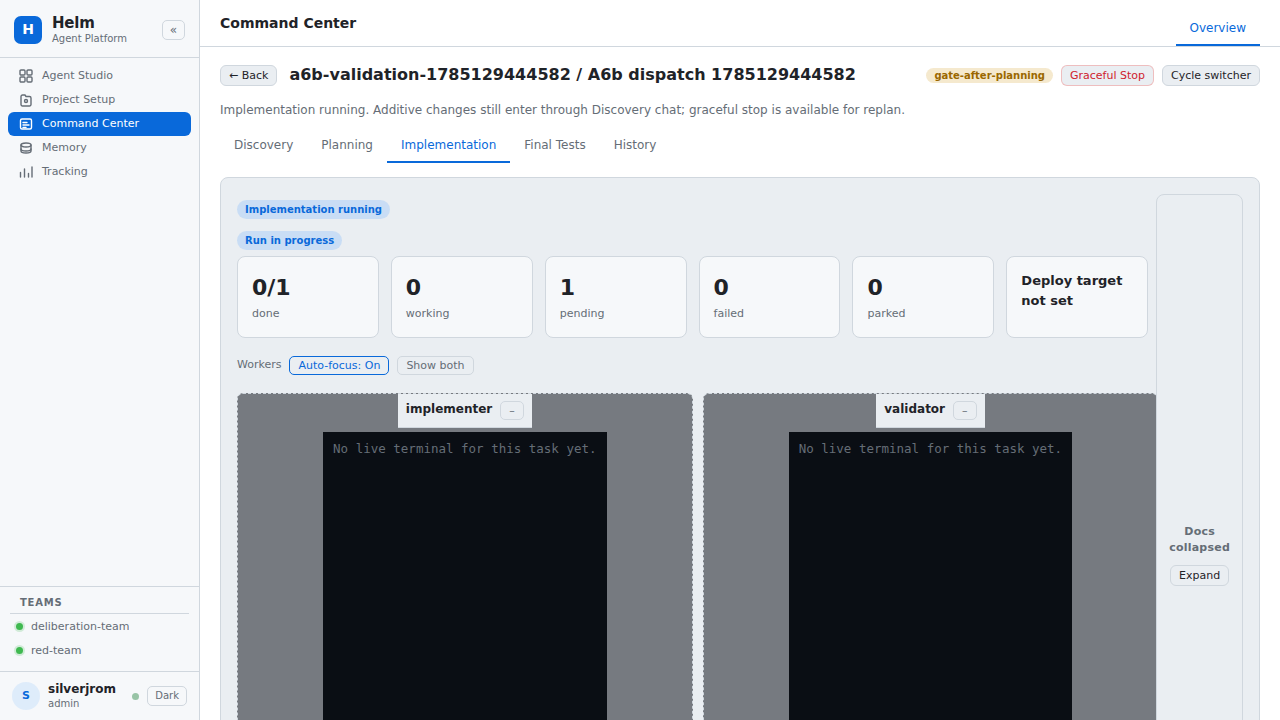
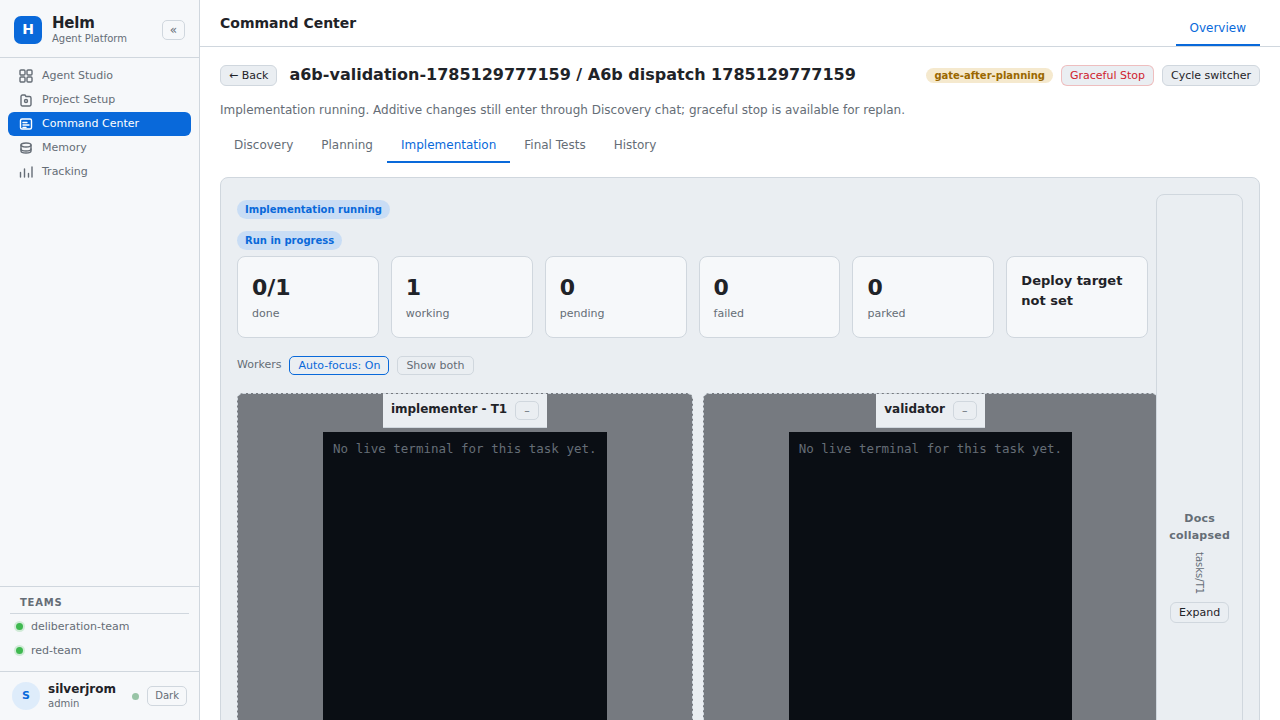
A6b: clear process-local task queue on run start (send-back 3)
Recycled runs.id left TaskQueueService inFlight/allTasks stuck so
getNextReady stayed null after cyclePlan ingest (DB pending, zero
attempts, unknown-pending-stall). clearRun on startRunDetached,
startRunInner, seedFromCyclePlan, and stopRun. Unit poisons inFlight;
live A6b 2× green under 180s.

diff --git a/src/services/run-orchestrator-service.ts b/src/services/run-orchestrator-service.ts
@@ -273,6 +273,11 @@ export class RunOrchestratorService {
     const batchId = input.batchId || `r${Date.now().toString(36)}`;
     const runDir = resolveRunDir(input.projectId, batchId); // #46: single resolver
     const runId = this.deps.artifacts.createRun(input.projectId, batchId, path.join(runDir, CANONICAL_CYCLE_ARTIFACTS.northStar), input.cycleId ?? null);
+    // A6b: process-local TaskQueueService is keyed by runId. SQLite reuses free runs.id after CASCADE
+    // delete; a prior run's stuck inFlight / failedTasks / allTasks then makes getNextReady() return
+    // null forever → DB has pending run_tasks but drainDispatch immediately pending-after-drain stalls
+    // (live A6b: "implementation queue never dispatched after approve"). Wipe queue state for this id.
+    try { this.deps.queue.clearRun(runId); } catch { /* never block start */ }
     try { this.deps.artifacts['db'].raw.prepare("UPDATE runs SET phase = 'starting' WHERE id = ?").run(runId); } catch {}
     // CC-CHAT-2 R3: persist the run-starting prompt as an owner bubble in the project chat
     // transcript (this is the choke point every run start passes through). Must never block/fail
@@ -415,9 +420,12 @@ export class RunOrchestratorService {
 
     // A6b belt-and-braces: createRun already clearRunAborts the new id, but a caller that reuses a
     // precreatedRunId after an external stop (or a recycled-id race before createRun was fixed)
-    // must not inherit a stale abort at pre-execution / task-boundary.
+    // must not inherit a stale abort at pre-execution / task-boundary. Same for process-local queue
+    // state (stuck inFlight → getNextReady always null → unknown-pending-stall with zero attempts).
     if (input.precreatedRunId != null && Number.isFinite(Number(input.precreatedRunId))) {
-      clearRunAbort(Number(input.precreatedRunId));
+      const rid = Number(input.precreatedRunId);
+      clearRunAbort(rid);
+      try { this.deps.queue.clearRun(rid); } catch { /* never block start */ }
     }
 
     // B-ISO1 (sol wiring review fix #4): resolve the RUN-SCOPED strict read policy ONCE, at run start,
@@ -1542,6 +1550,8 @@ export class RunOrchestratorService {
     const stopReason = (reason && String(reason).trim()) || 'operator stop via POST /api/runs/:id/stop';
     const { requestRunAbort } = await import('./run-abort-registry.js');
     requestRunAbort(runId, stopReason);
+    // Drop process-local queue claim so a later recycled runId does not inherit stuck inFlight.
+    try { this.deps.queue.clearRun(runId); } catch { /* stop must not fail on bookkeeping */ }
     db.prepare(`UPDATE runs SET phase = 'failed', status = 'failed', ended_at = datetime('now') WHERE id = ? AND phase NOT IN ('complete','failed','blocked')`).run(runId);
     try {
       this.deps.events?.recordEvent({
@@ -1740,6 +1750,8 @@ export class RunOrchestratorService {
     // The complete canonical set was materialized from the cycle workspace before this seed runs.
     const nsPath = path.join(runDir, CANONICAL_CYCLE_ARTIFACTS.northStar);
     const rid = precreatedRunId ?? this.deps.artifacts.createRun(projectId, batchId, nsPath, cycleId);
+    // Fresh ingest must not see leftover inFlight/failedTasks from a prior occupant of this runId.
+    try { this.deps.queue.clearRun(rid); } catch { /* never block seed */ }
     await this.deps.parser.ingestExecutionPlan(rid, md, this.deps.queue, runDir);
     console.error(`[cycle-plan] cycle ${cycleId}: ingested plan.md into run ${rid} — implementation-only (no interview/planning)`);
     return rid;

diff --git a/src/pause-after-planning-gate.test.ts b/src/pause-after-planning-gate.test.ts
@@ -269,10 +269,12 @@ describe.sequential('A6 R3.14 pause_after_planning gate', () => {
     expect(Number(implAttemptsRow.c)).toBeGreaterThan(0);
   });
 
-  it('A6b: recycled runs.id does not inherit a stale abort — cyclePlan still dispatches', async () => {
+  it('A6b: recycled runs.id does not inherit stale abort OR stuck queue inFlight — cyclePlan dispatches', async () => {
     // Mechanism: INTEGER PRIMARY KEY without AUTOINCREMENT reuses free rowids after DELETE.
-    // A prior stop left requestRunAbort(id) in the process-local registry; createRun must clear it
-    // so a fresh cyclePlan run is not aborted at pre-execution with zero attempts.
+    // Two process-local maps are keyed by runId and survive CASCADE delete:
+    //  1) abort registry — createRun clears (attempt=1)
+    //  2) TaskQueueService inFlight/allTasks — if stuck, getNextReady always null →
+    //     DB has pending run_tasks but drain never records attempts (attempt=3 live FAIL).
     const proj = projectSvc.createProject({ name: 'a6b-abort-recycle', directory: projDir });
     const cycle = await cycleSvc.createCycle(proj.id, 'A6b abort recycle', 'pause_after_planning');
     cycleSvc.setCyclePhase(cycle.id, 'planning');
@@ -302,8 +304,13 @@ describe.sequential('A6 R3.14 pause_after_planning gate', () => {
     // Poison a run id that SQLite will reuse after delete (max free rowid).
     const poisonId = artifacts.createRun(proj.id, 'a6b-poison', null, cycle.id);
     requestRunAbort(poisonId, 'A6 live evidence capture complete');
+    // Stick inFlight: claim a task without markComplete — the live unknown-pending-stall pattern.
+    const poisonTask = artifacts.recordTask(poisonId, 'POISON', 'stuck inFlight', 'B1');
+    queue.enqueue(poisonId, poisonTask, [], false, 'B1');
+    expect(queue.getNextReady(poisonId)).toBe(poisonTask);
+    expect(queue.getNextReady(poisonId)).toBeNull(); // strictly one-in-flight stuck
     expect(getRunAbort(poisonId)?.reason).toContain('A6 live evidence');
-    db.raw.prepare('DELETE FROM runs WHERE id = ?').run(poisonId);
+    db.raw.prepare('DELETE FROM runs WHERE id = ?').run(poisonId); // cascade tasks; queue state remains
 
     // createRun must clear the recycled id's abort (product contract).
     const implBatchId = `a6b-impl-${Date.now().toString(36)}`;
